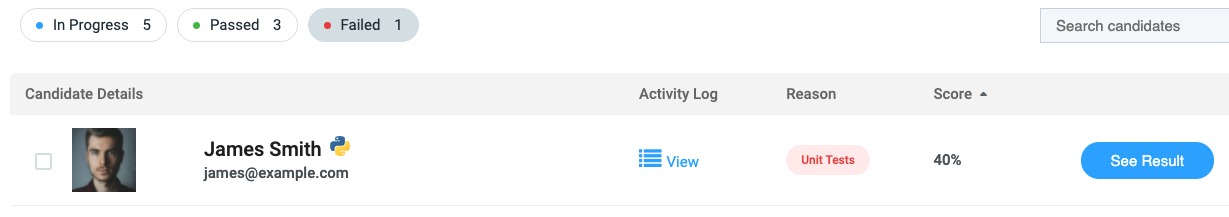
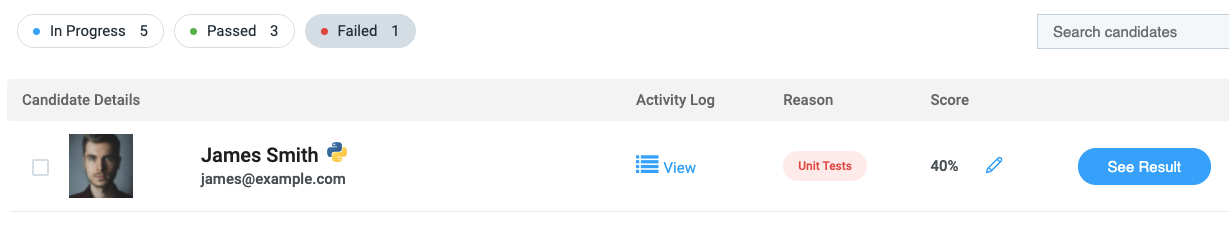
Added Edit Result doc, and updated hidden non-unit messages

diff --git a/docs/java.md b/docs/java.md
@@ -21,7 +21,8 @@ If you would like to add tests that are automatically run by CodeScreen against 
 
 All unit test class names must end with `"Test"` and all unit test classes with names that end with `"HiddenTest"` will not be visible to the candidate. These hidden tests allow you to test candidate's solutions against edge cases etc.
 
-If you want to add files that your hidden unit tests use and hence are also not visible to the candidate, the names of these files must begin with `hidden`, e.g., `hiddenFoo.json`, `hiddenFoo.csv`, etc.
+If you want to add files that your hidden unit tests use and hence are also not visible to the candidate, the names of 
+these files must begin with `hidden` (case-insensitive), e.g., `hiddenFoo.json`, `hiddenFoo.csv`, `HiddenFoo.java`, etc.
 
 All unit tests must use the [`Junit`](https://junit.org/junit5/) test framework and the `pom.xml` file may only be updated to add dependencies required for your coding test.
 

diff --git a/docs/java.gradle.md b/docs/java.gradle.md
@@ -21,7 +21,8 @@ If you would like to add tests that are automatically run by CodeScreen against 
 
 All unit test filenames must end with `"Test"` and all unit test filesnames that end with `"HiddenTest"` will not be visible to the candidate. These hidden tests allow you to test candidate's solutions against edge cases etc.
 
-If you want to add files that your hidden unit tests use and hence are also not visible to the candidate, the names of these files must begin with `hidden`, e.g., `hiddenFoo.json`, `hiddenFoo.csv`, etc.
+If you want to add files that your hidden unit tests use and hence are also not visible to the candidate, the names of 
+these files must begin with `hidden` (case-insensitive), e.g., `hiddenFoo.json`, `hiddenFoo.csv`, `HiddenFoo.java`, etc.
 
 All unit tests must use the [`Junit`](https://junit.org/junit5/) test framework and the `build.gradle` file may only be updated to add dependencies required for your coding test.
 

diff --git a/docs/kotlin.gradle.md b/docs/kotlin.gradle.md
@@ -21,7 +21,8 @@ If you would like to add tests that are automatically run by CodeScreen against 
 
 All unit test filenames must end with `"Test"` and all unit test filesnames that end with `"HiddenTest"` will not be visible to the candidate. These hidden tests allow you to test candidate's solutions against edge cases etc.
 
-If you want to add files that your hidden unit tests use and hence are also not visible to the candidate, the names of these files must begin with `hidden`, e.g., `hiddenFoo.json`, `hiddenFoo.csv`, etc.
+If you want to add files that your hidden unit tests use and hence are also not visible to the candidate, the names of 
+these files must begin with `hidden` (case-insensitive), e.g., `hiddenFoo.json`, `hiddenFoo.csv`, `HiddenFoo.kt`, etc.
 
 All unit tests must use the [`Junit`](https://junit.org/junit5/) test framework and the `build.gradle` file may only be updated to add dependencies required for your coding test.
 

diff --git a/docs/kotlin.maven.md b/docs/kotlin.maven.md
@@ -21,7 +21,8 @@ If you would like to add tests that are automatically run by CodeScreen against 
 
 All unit test filenames must end with `"Test"` and all unit test filenames that end with `"HiddenTest"` will not be visible to the candidate. These hidden tests allow you to test candidate's solutions against edge cases etc.
 
-If you want to add files that your hidden unit tests use and hence are also not visible to the candidate, the names of these files must begin with `hidden`, e.g., `hiddenFoo.json`, `hiddenFoo.csv`, etc.
+If you want to add files that your hidden unit tests use and hence are also not visible to the candidate, the names of 
+these files must begin with `hidden` (case-insensitive), e.g., `hiddenFoo.json`, `hiddenFoo.csv`, `HiddenFoo.kt`, etc.
 
 All unit tests must use the [`Junit`](https://junit.org/junit5/) test framework and the `pom.xml` file may only be updated to add dependencies required for your coding test.
 

diff --git a/docs/solidity.md b/docs/solidity.md
@@ -23,7 +23,8 @@ All unit tests must use the `Truffle` testing framework. They can be written in 
 
 All unit test file names must end with `Test.js` or `Test.sol`, and all unit test files with file names ending with `HiddenTest.js` or `HiddenTest.sol` will not be visible to the candidate.
 
-If you want to add files that your hidden unit tests use and hence are also not visible to the candidate, the names of these files must begin with `hidden`, e.g., `hiddenFoo.json`, `hiddenFoo.csv`, etc.
+If you want to add files that your hidden unit tests use and hence are also not visible to the candidate, the names of 
+these files must begin with `hidden` (case-insensitive), e.g., `hiddenFoo.json`, `hiddenFoo.csv`, `HiddenFoo.sol`, etc.
 
 The `package.json` file should only be modified in order to add any third-party dependencies required for your solution. The `truffle` and `truffle-assertions` versions should not be changed.
 

diff --git a/docs/react.md b/docs/react.md
@@ -26,7 +26,8 @@ All unit test filenames must end with `.test.js`, `.test.ts` or `.test.tsx`, and
  `.hidden.test.ts` or `.hidden.test.tsx` will not be visible to the candidate.
 All end-to-end test filenames must end with `.spec.js` or `.spec.ts`, and end-to-end test files with filenames that end with `.hidden.spec.js` or `.hidden.spec.ts` will not be visible to the candidate.
 
-If you want to add files that your hidden unit tests use and hence are also not visible to the candidate, the names of these files must begin with `hidden`, e.g., `hiddenFoo.json`, `hiddenFoo.csv`, etc.
+If you want to add files that your hidden unit tests use and hence are also not visible to the candidate, the names of 
+these files must begin with `hidden` (case-insensitive), e.g., `hiddenFoo.json`, `hiddenFoo.csv`, `HiddenFoo.js`, etc.
 
 The `package.json` file may be updated to add any third-party libraries required for your test.
 

diff --git a/docs/terraform.md b/docs/terraform.md
@@ -38,6 +38,7 @@ Note that the candidate's Terraform code must use/be compatible with Terraform v
 
 You can add more than one unit test files. All unit test file names must end with `_test.go`, and all unit test classes with names that end with `_hidden_test.go` will not be visible to the candidate. These hidden tests allow you to test candidate's solutions against edge cases etc.
 
-If you want to add files that your hidden unit tests use and hence are also not visible to the candidate, the names of these files must begin with `hidden`, e.g., `hiddenFoo.json`, `hiddenFoo.csv`, etc.
+If you want to add files that your hidden unit tests use and hence are also not visible to the candidate, the names of
+these files must begin with `hidden` (case-insensitive), e.g., `hiddenFoo.json`, `hiddenFoo.csv`, `hidden_foo.go`, etc.
 
 The existing dependencies and versions in the `go.mod` file must not be modified.

diff --git a/docs/edit-result.md b/docs/edit-result.md
@@ -1,0 +1,26 @@
+# Editing Results
+
+You can override the score and status of a candidate's result. This is useful, for example, if your test does not use 
+unit tests and you have a different rubric for evaluating candidates' submissions.
+
+To do this, click the edit pencil icon beside the candidate's score in the candidate list screen:
+
+<figure>
+  <figcaption style="font-style: italic;"></figcaption>
+  </br>
+  <img style="max-width: 80%;" src="failedSection.png" alt="In Progress Candidate"/>
+</figure>
+
+<br>
+
+You will then see the following pop-up:
+
+<figure>
+  <figcaption style="font-style: italic;"></figcaption>
+  </br>
+  <img style="max-width: 40%;" src="editResult.png" alt="Extend Time"/>
+</figure>
+
+<br>
+
+Once you choose the new score and status (optional, you can leave the status as is), click the blue `Confirm` button, and that's it!

diff --git a/docs/angular.md b/docs/angular.md
@@ -26,7 +26,7 @@ test runner.
 
 All unit test filenames must end with `.spec.ts` and unit test files with filenames that end with `.hidden.spec.ts` will not be visible to the candidate.
 
-If you want to add files that your hidden unit tests use and hence are also not visible to the candidate, the names of these files must begin with `hidden`, e.g., `hiddenFoo.json`, `hiddenFoo.csv`, etc.
+If you want to add files that your hidden unit tests use and hence are also not visible to the candidate, the names of these files must begin with `hidden`, e.g., `hiddenFoo.json`, `hiddenFoo.csv`, `hidden-foo.ts`, etc.
 
 Your test must use `Angular 8`, and the `package.json` file may only be changed if you want to add third-party libraries to your test. All the current versions of the dependencies in `package.json` and `package-lock.json` must not be changed. 
 

diff --git a/docs/swift.md b/docs/swift.md
@@ -27,7 +27,8 @@ If you would like to add tests that are automatically run by CodeScreen against 
 
 All unit test class filenames must end with `Tests.swift` and the test classes with filenames that end with `HiddenTests.swift` will not be visible to the candidate. All unit tests must use the [XCTest](https://developer.apple.com/documentation/xctest) testing framework.
 
-If you want to add files that your hidden unit tests use and hence are also not visible to the candidate, the names of these files must begin with `hidden`, e.g., `hiddenFoo.json`, `hiddenFoo.csv`, etc.
+If you want to add files that your hidden unit tests use and hence are also not visible to the candidate, the names of 
+these files must begin with `hidden` (case-insensitive), e.g., `hiddenFoo.json`, `hiddenFoo.csv`, `HiddenFoo.swift`, etc.
 
 `Xcode` version 12.1 must be used.
 

diff --git a/docs/php.md b/docs/php.md
@@ -21,7 +21,8 @@ If you would like to add tests that are automatically run by CodeScreen against 
 
 All unit test class filenames must end with `Test.php` and the test classes with filenames that end with `HiddenTest.php` will not be visible to the candidate.
 
-If you want to add files that your hidden unit tests use and hence are also not visible to the candidate, the names of these files must begin with `hidden`, e.g., `hiddenFoo.json`, `hiddenFoo.csv`, etc.
+If you want to add files that your hidden unit tests use and hence are also not visible to the candidate, the names of 
+these files must begin with `hidden` (case-insensitive), e.g., `hiddenFoo.json`, `hiddenFoo.csv`, `HiddenFoo.php`, etc.
 
 `PHP` version 7.2 must be used and all dependencies that your coding test requires need to be added to the `composer.json`
 file.

diff --git a/docs/wordpress.md b/docs/wordpress.md
@@ -21,7 +21,8 @@ If you would like to add tests that are automatically run by CodeScreen against 
 
 All unit test class filenames must end with `Test.php` and the test classes with filenames that end with `HiddenTest.php` will not be visible to the candidate.
 
-If you want to add files that your hidden unit tests use and hence are also not visible to the candidate, the names of these files must begin with `hidden`, e.g., `hiddenFoo.json`, `hiddenFoo.csv`, etc.
+If you want to add files that your hidden unit tests use and hence are also not visible to the candidate, the names of
+these files must begin with `hidden` (case-insensitive), e.g., `hiddenFoo.json`, `hiddenFoo.csv`, `HiddenFoo.php`, etc.
 
 `PHP` version 7.4 must be used and all dependencies that your coding test requires need to be added to the `composer.json`
 file.
